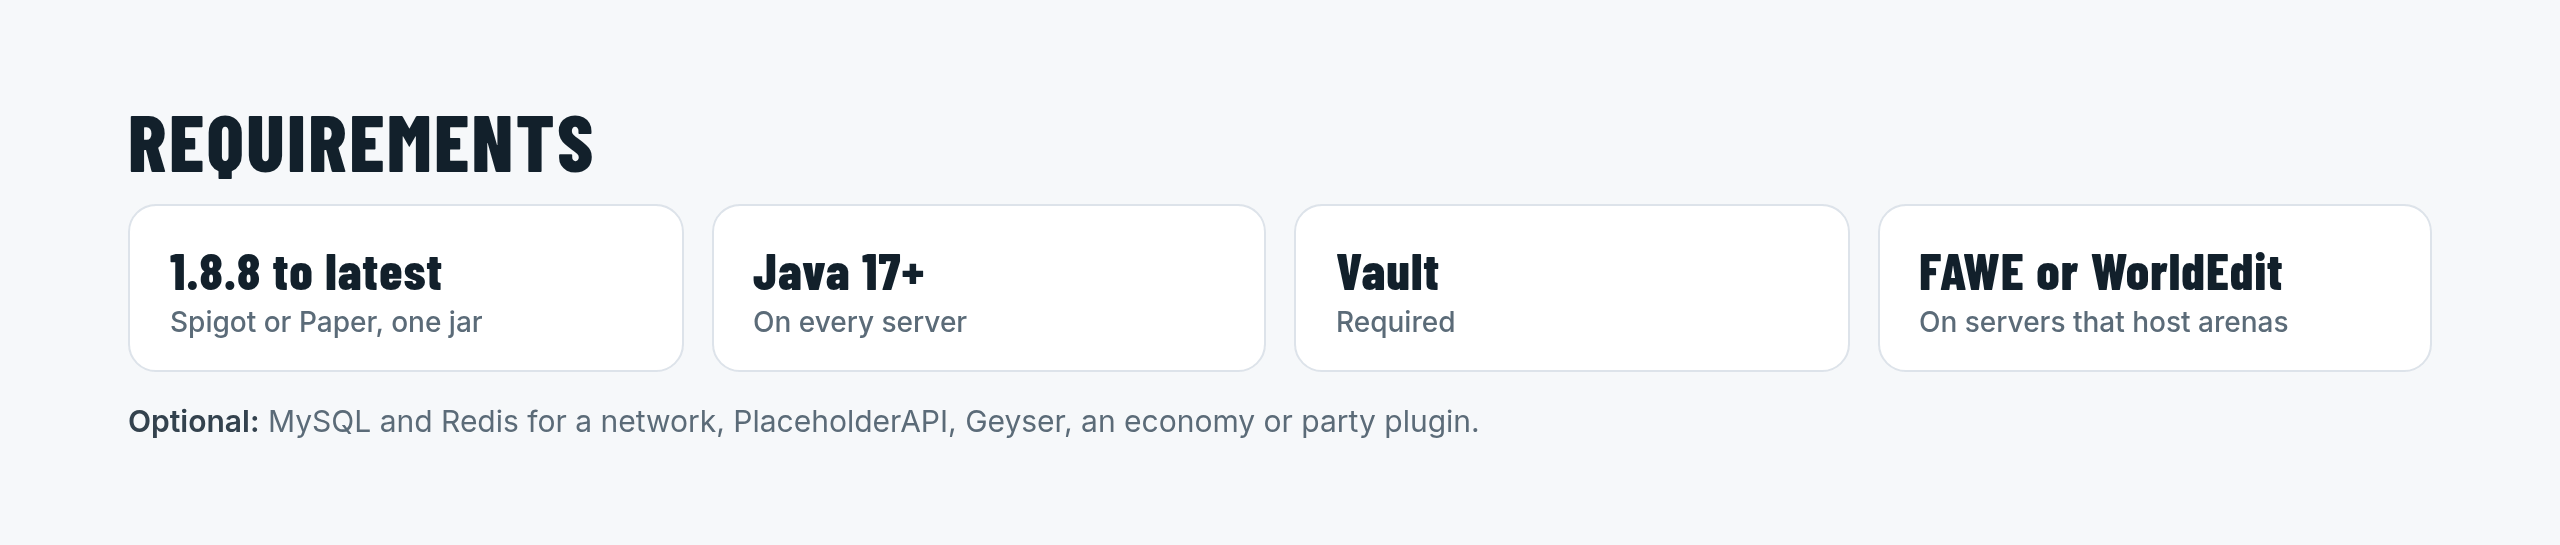
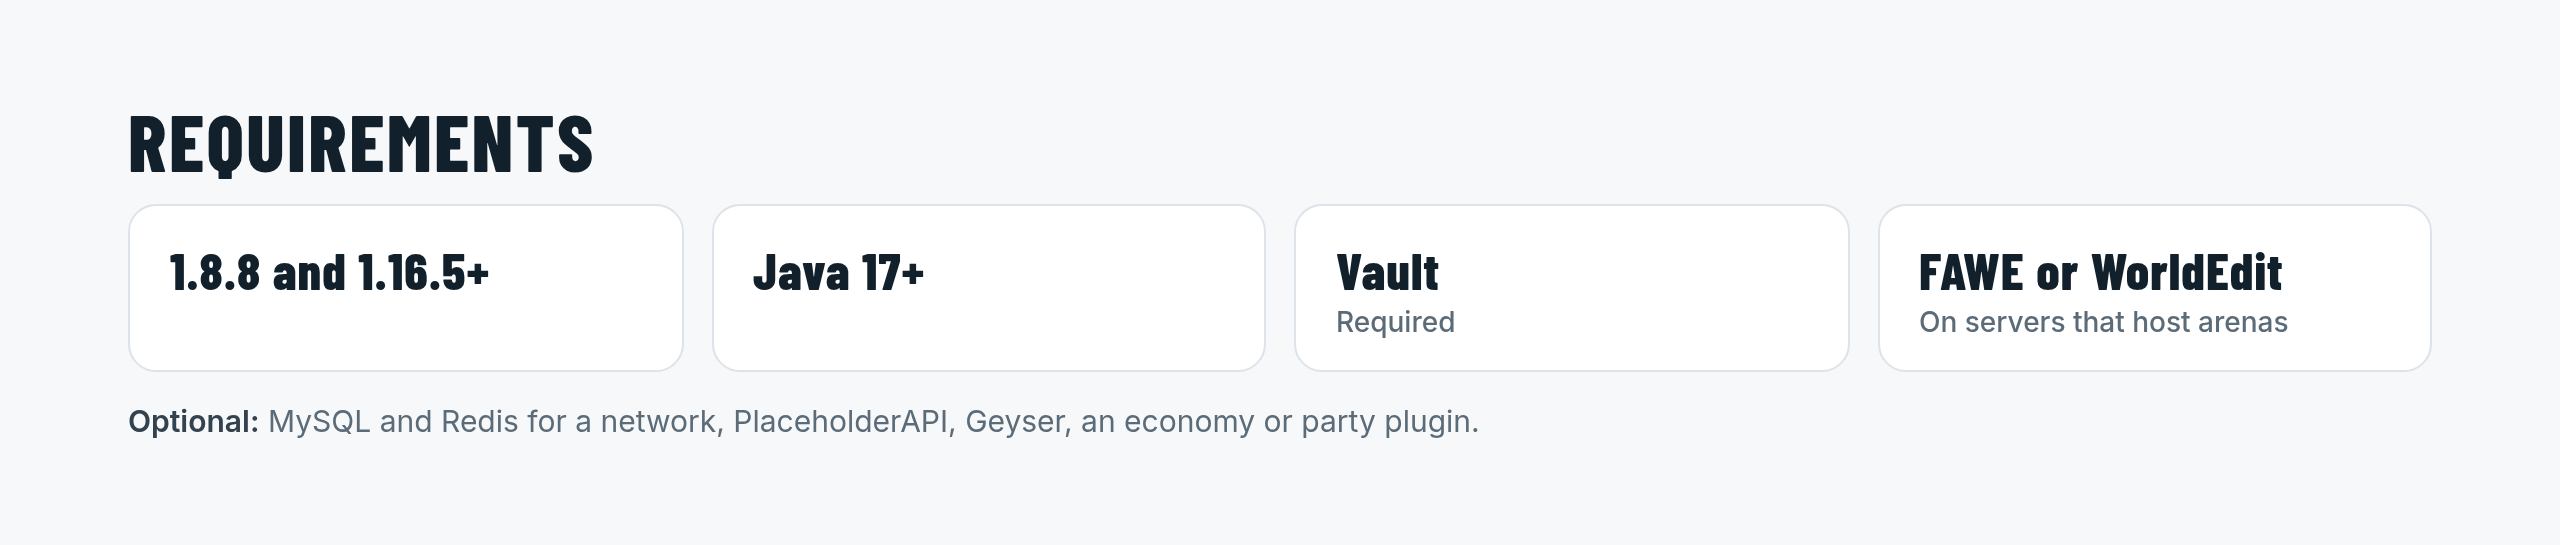
fix: incorrect supported version ranges

Changed region(s): [[0.0625, 0.5615, 0.1875, 0.6239], [0.2812, 0.5615, 0.375, 0.6239], [0.0938, 0.4679, 0.1875, 0.5303]]

diff --git a/docs/tea/user/server-versions.md b/docs/tea/user/server-versions.md
@@ -5,7 +5,7 @@ title: Server versions
 
 # Server versions
 
-TeaCore and the games built on it run on **Minecraft 1.8.8 up to the latest release**, all from the same plugin jars. TeaCore detects the version at startup and logs it:
+TeaCore and the games built on it run on **Minecraft 1.8.8 to 1.12.2, and 1.16.5 up to the latest release**, all from the same plugin jars. TeaCore detects the version at startup and logs it:
 
 ```
 [TeaCore] Platform: legacy (Minecraft 1.8.8)
@@ -16,9 +16,13 @@ TeaCore and the games built on it run on **Minecraft 1.8.8 up to the latest rele
 
 | Plugin | Versions |
 | ------ | -------- |
-| TeaCore | 1.8.8 to latest |
-| Fireball, Overcharge, TeaCosmetics | 1.8.8 to latest |
-| Ascend | 1.8.8 to latest, with a [LibsDisguises](https://www.spigotmc.org/resources/libs-disguises-free.81/) build for your server version |
+| TeaCore | 1.8.8 to 1.12.2, 1.16.5 to latest |
+| Fireball, Overcharge, TeaCosmetics | 1.8.8 to 1.12.2, 1.16.5 to latest |
+| Ascend | 1.8.8 to 1.12.2, 1.16.5 to latest, with a [LibsDisguises](https://www.spigotmc.org/resources/libs-disguises-free.81/) build for your server version |
+
+## 1.13 to 1.16.4
+
+These versions can't load Tea. From 1.13, the server rewrites every plugin class as it loads, and on 1.13 to 1.15 the library that does this can't read Java 17 classes. The server stops TeaCore with `Unsupported class file major version 61` before any of its code runs. Update to 1.16.5 or newer, or stay on 1.12.2 or older.
 
 On versions that lack a mob or item, the games use the closest one: Ascend's Warden stage becomes a Wither on 1.8, the Phantom a Bat, the Piglin a Zombie Pigman; Overcharge's energy cells are prismarine crystals instead of amethyst shards.
 
@@ -28,9 +32,12 @@ On versions that lack a mob or item, the games use the closest one: Ascend's War
 | --------- | --------------- | ---- |
 | 1.20.5 and newer | Paper (or Spigot), or a fork such as Purpur | 21 or newer, as Minecraft requires |
 | 1.17 to 1.20.4 | Paper (or Spigot) | 17 or newer |
-| 1.8.8 to 1.16.5 | Paper (or Spigot), or a fork | 17 or newer |
+| 1.16.5 | Paper (or Spigot) | 17 or newer |
+| 1.8.8 to 1.12.2 | Paper (or Spigot), or a fork | 17 or newer |
 
 Every Tea jar needs Java 17 or newer, including on 1.8.8. Older Minecraft versions were made for Java 8, so on 1.8.8 pick server software that runs on Java 17.
+
+On Paper 1.16.5, add `-DPaper.IgnoreJavaVersion=true` to the start command so it accepts Java 17. If you use FastAsyncWorldEdit there, use a build made for 1.16.5 (2.4.x): newer FAWE builds crash while pasting maps on 1.16.5.
 
 ## 1.8.8 on Java 17
 
@@ -67,7 +74,7 @@ Config and menu files name items, sounds, particles and potion effects by their 
 
 ## Maps
 
-| | 1.13 and newer | 1.8 to 1.12 |
+| | 1.16.5 and newer | 1.8 to 1.12 |
 | --- | --- | --- |
 | Map file | `<map>.schem` (Sponge format) | `<map>.schematic` (MCEdit format) |
 | WorldEdit / FAWE | Needed to save and paste maps | Not needed: TeaCore reads and writes `.schematic` itself |

diff --git a/docs/tea/user/lobby.md b/docs/tea/user/lobby.md
@@ -139,6 +139,10 @@ Players who join an arena wait there until the countdown ends. You choose where:
 
 TeaCore uses the first one that's set. Spectators always go straight into the arena.
 
+If players leave in the last seconds before the match and too few are left, or everyone left is on one team, the match doesn't start. The arena goes back to waiting and the players return to where they wait.
+
+A player who quits during a match leaves it. They are moved to the lobby spawn (or the main world's spawn) with an empty inventory, so they never log back in inside an arena.
+
 ![Waiting for a match: the kit picker in slot 1 and the leave item in slot 9](/img/tea/waiting.png)
 
 ### Waiting rooms
@@ -170,7 +174,7 @@ Then choose where it's used:
 
 A map's own room wins over the game's room. A map without one uses the game's room, and a game without one falls back to a shared waiting area or the map's waiting spawn. New assignments apply to arenas opened after the change.
 
-Rooms live in `plugins/TeaCore/waiting-rooms/`: one schematic per room and `waiting-rooms.yml` with the spawns and assignments. Like maps, they're stored in the database and every server gets them (see [Arena servers](./hosting.md)). Rooms need the same things as maps: WorldEdit or FastAsyncWorldEdit on 1.13 and newer, nothing extra on older versions. Every command needs the `tea.arena.admin` permission.
+Rooms live in `plugins/TeaCore/waiting-rooms/`: one schematic per room and `waiting-rooms.yml` with the spawns and assignments. Like maps, they're stored in the database and every server gets them (see [Arena servers](./hosting.md)). Rooms need the same things as maps: WorldEdit or FastAsyncWorldEdit on 1.16.5 and newer, nothing extra on older versions. Every command needs the `tea.arena.admin` permission.
 
 ### A shared waiting area
 

diff --git a/docs/cosmetics/user/cosmetics.md b/docs/cosmetics/user/cosmetics.md
@@ -7,7 +7,7 @@ title: The cosmetics
 
 These are the cosmetics TeaCosmetics ships with. Change them, or add your own, in [Configuration](./configuration.md).
 
-Players open `/cosmetics`, pick a type, and click a cosmetic to buy or wear it. Right-clicking a cosmetic in that menu, or running `/cosmetics preview <id>`, shows it without buying it: projectile trails on a thrown snowball, walk trails circling you, and kill and win effects three times in front of you.
+Players open `/cosmetics`, pick a type, and click a cosmetic to buy or wear it. Right-clicking a cosmetic in that menu, or running `/cosmetics preview <id>`, shows it without buying it: projectile trails on a thrown snowball, walk trails circling you, and kill and win effects three times in front of you. Previews work in the lobby and in a waiting arena, not during a match. Victory dances never launch or spin a player while a match is running.
 
 ![The /cosmetics menu](/img/cosmetics/menu.png)
 
@@ -87,7 +87,7 @@ Plays when you or your team wins, next to your win effect.
 | Command | Permission | What it does |
 | --- | --- | --- |
 | `/cosmetics` | `teacosmetics.use` | Opens the menu. |
-| `/cosmetics preview <id>` | `teacosmetics.use` | Shows a cosmetic without wearing it. Once every 2 seconds. |
+| `/cosmetics preview <id>` | `teacosmetics.use` | Shows a cosmetic without wearing it. Once every 2 seconds. Not available once a match has started. |
 | `/cosmetics equip <player> <id>` | `teacosmetics.admin` | Puts a cosmetic on an online player, without buying it. `none` takes everything off. |
 | `/cosmetics reload` | `teacosmetics.admin` | Reloads the config. |
 

diff --git a/docs/tea/intro.md b/docs/tea/intro.md
@@ -5,7 +5,7 @@ title: What is Tea
 
 # What is Tea
 
-Tea is a reusable Minecraft minigames engine for Paper (or Spigot), from 1.8.8 to the latest release. It ships as a single plugin:
+Tea is a reusable Minecraft minigames engine for Paper (or Spigot), from 1.8.8 to 1.12.2 and 1.16.5 to the latest release. It ships as a single plugin:
 
 * **TeaCore**: the engine itself, with arena lifecycle, maps, teams, kits, abilities, cooldowns, effects, i18n, theme, chat routing, stats, and cross-server coordination (Redis + BungeeCord/Velocity).
 * **Lobby features** (live inside TeaCore, gated by `lobby.enabled` in `plugins/TeaCore/config.yml`) provide `/play`, `/leave`, connection signs, and lobby spawn / gamemode auto-management. Set `lobby.enabled: true` on each hub server; leave it `false` (the default) on arena-only servers.
@@ -24,7 +24,7 @@ TeaCore also gives every game a shared set of player-facing features. The server
 
 
 
-Tea runs on Java 17 or newer and uses the plain Spigot API, with no Paper-only APIs, so the same jars run on Spigot, Paper, Purpur and Paper-based forks, from 1.8.8 to the latest release. On 1.8 to 1.12 TeaCore reaches into a few server internals (item and entity NBT, explosions). See [Server versions](./user/server-versions.md).
+Tea runs on Java 17 or newer and uses the plain Spigot API, with no Paper-only APIs, so the same jars run on Spigot, Paper, Purpur and Paper-based forks, from 1.8.8 to 1.12.2 and 1.16.5 to the latest release. On 1.8 to 1.12 TeaCore reaches into a few server internals (item and entity NBT, explosions). See [Server versions](./user/server-versions.md).
 
 ## Where to next
 

diff --git a/docs/tea/user/getting-started.md b/docs/tea/user/getting-started.md
@@ -5,7 +5,7 @@ title: Getting started
 
 # Getting started
 
-Tea is a single-plugin engine for running Minecraft minigames on Paper (or Spigot), from 1.8.8 to the latest release:
+Tea is a single-plugin engine for running Minecraft minigames on Paper (or Spigot), from 1.8.8 to 1.12.2 and 1.16.5 to the latest release:
 
 - **TeaCore**: the engine. Every server that runs a game needs it.
 - **Lobby features** (connection signs, `/play` and the game selector, `/profile`, the lobby hotbar, `/leave`, lobby spawn / gamemode management) ship inside TeaCore. Turn them on with `lobby.enabled: true` in `plugins/TeaCore/config.yml`. Set this on every hub server; leave it off (the default) on arena-only servers.
@@ -14,9 +14,9 @@ Games are separate plugin jars on top of Tea. This section covers installing and
 
 ## Minimum requirements
 
-- Minecraft 1.8.8 or newer: Paper (or Spigot) or a fork such as Purpur. See [Server versions](./server-versions.md).
+- Minecraft 1.8.8 to 1.12.2, or 1.16.5 or newer: Paper (or Spigot) or a fork such as Purpur. See [Server versions](./server-versions.md).
 - Java 17 or newer
-- On 1.13 and newer: WorldEdit or FastAsyncWorldEdit to save and paste maps (soft dependency, not bundled). 1.8 to 1.12 servers don't need it.
+- On 1.16.5 and newer: WorldEdit or FastAsyncWorldEdit to save and paste maps (soft dependency, not bundled). 1.8 to 1.12 servers don't need it.
 - Redis (optional, needed for cross-server matchmaking)
 - MySQL (optional, SQLite is the default)
 

diff --git a/docs/tea/user/adding-a-map.md b/docs/tea/user/adding-a-map.md
@@ -7,7 +7,7 @@ title: Authoring a map
 
 You author Tea maps with `/tea map ...` commands. Each authoring session runs in a temporary void world: TeaCore creates it on `create`, pastes your schematic into it on `edit`, and deletes it on `save` or `discard`. TeaCore stores spawn positions as offsets from the region's min-corner, so spawns land in the right place when the map is pasted into an arena world.
 
-On 1.13 and newer, you need WorldEdit or FastAsyncWorldEdit installed to save maps (TeaCore uses it as a soft dependency and does not bundle it). On 1.8 to 1.12 TeaCore saves maps itself. In both cases TeaCore does the save, so you do not need to run `//schem save`. TeaCore saves maps as `.schem` on modern servers and `.schematic` on 1.8 to 1.12 (see [Server versions](./server-versions.md#maps)).
+On 1.16.5 and newer, you need WorldEdit or FastAsyncWorldEdit installed to save maps (TeaCore uses it as a soft dependency and does not bundle it). On 1.8 to 1.12 TeaCore saves maps itself. In both cases TeaCore does the save, so you do not need to run `//schem save`. TeaCore saves maps as `.schem` on modern servers and `.schematic` on 1.8 to 1.12 (see [Server versions](./server-versions.md#maps)).
 
 Every game built on Tea uses this authoring flow. Games add their own `/tea map` subcommands through the map-extension registry; each game's map-authoring page lists them.
 

diff --git a/docs/fireball/user/installing.md b/docs/fireball/user/installing.md
@@ -9,10 +9,10 @@ Fireball runs on top of Tea. Before you start, [install TeaCore](../../tea/user/
 
 ## Requirements
 
-- Paper (or Spigot) **1.8.8 to the latest release**. See [Server versions](../../tea/user/server-versions.md).
+- Paper (or Spigot) **1.8.8 to 1.12.2 and 1.16.5 to the latest release**. See [Server versions](../../tea/user/server-versions.md).
 - Java **21**
 - **TeaCore 0.2.0 or newer** (hard dependency). Fireball will not load without it, and disables itself on an older TeaCore with a console message saying which version it needs.
-- **FastAsyncWorldEdit** or **WorldEdit** on 1.13 and newer. This is a soft dependency and is not bundled. TeaCore uses it to save maps and to paste them into arenas. Without it you cannot author maps and TeaCore cannot build arenas. Servers on 1.8 to 1.12 don't need it.
+- **FastAsyncWorldEdit** or **WorldEdit** on 1.16.5 and newer. This is a soft dependency and is not bundled. TeaCore uses it to save maps and to paste them into arenas. Without it you cannot author maps and TeaCore cannot build arenas. Servers on 1.8 to 1.12 don't need it.
 - **A Vault economy plugin** (EssentialsX Economy, CMI, ...): needed only if you keep kits with a `cost` above 0. Vault itself is already required by TeaCore. See [Economy](../../tea/user/economy.md).
 - **PlaceholderAPI**: optional, for the `%tea_fireball_*%` placeholders.
 

diff --git a/docs/tea/user/configuring-network-mode.md b/docs/tea/user/configuring-network-mode.md
@@ -135,6 +135,17 @@ arena-pool:
 
 Every arena server hosts every installed game unless you limit it with `hosting.games`. See [Arena servers](./hosting.md) for that, for how arenas pick their map, and for keeping maps on each server's disk instead of the database (`maps.storage: files`).
 
+### Signed Redis messages
+
+Servers sign every command and event they send each other through Redis with a shared network secret, and drop messages that are unsigned, wrongly signed or more than two minutes old. You don't set the secret up: the first server to start generates one and stores it in the shared MySQL database, and the others read it from there. A server that drops a message logs `Dropped an unsigned or wrongly signed message`. That usually means it uses a different database from the rest, or its clock is off by minutes.
+
+If your servers don't share a database, set the same `network.secret` on every server:
+
+```yaml
+network:
+  secret: "a long random string"
+```
+
 ## External
 
 **Use this when:** Kubernetes (or similar) boots a fresh server per match. Each server hosts one arena, runs the match, then stops. Your autoscaler decides when to start more servers. See [Running on Kubernetes](./kubernetes.md) for a full setup.

diff --git a/docs/tea/user/troubleshooting.md b/docs/tea/user/troubleshooting.md
@@ -26,7 +26,7 @@ The named game isn't registered on this server. In a split lobby/arena deploymen
 
 TeaCore isn't pasting the schematic. Check:
 
-1. On 1.13 and newer: WorldEdit or FastAsyncWorldEdit is installed and enabled (1.8 to 1.12 doesn't need it).
+1. On 1.16.5 and newer: WorldEdit or FastAsyncWorldEdit is installed and enabled (1.8 to 1.12 doesn't need it).
 2. The map has a schematic: `/tea map info <game> <map>` should show a schematic path.
 3. The schematic file exists at `plugins/TeaCore/maps/schems/<mapId>.schem` (or `.schematic`).
 
@@ -48,7 +48,7 @@ The edit world exists, but TeaCore can't paste the saved schematic. Causes:
 
 - Someone deleted the schematic file from `plugins/TeaCore/maps/schems/`.
 - Someone saved the schematic on a different Minecraft version with incompatible block IDs. A `.schem` from a modern server can't be pasted on 1.8 to 1.12; a `.schematic` works everywhere. Re-run `/tea map create` and build fresh, or replace the file with one made for this version.
-- On 1.13 and newer: WorldEdit isn't loaded.
+- On 1.16.5 and newer: WorldEdit isn't loaded.
 
 ## Redis connection refused
 

diff --git a/docs/tea/dev/extending-with-a-new-game.md b/docs/tea/dev/extending-with-a-new-game.md
@@ -17,7 +17,7 @@ api-version: '1.13'
 depend: [TeaCore]
 ```
 
-Keep `api-version` at `'1.13'`. A server refuses to load a plugin whose `api-version` is newer than the server itself, so `'1.21'` would lock out everything from 1.13 to 1.20. Servers older than 1.13 ignore the field. To run on every version TeaCore supports (1.8.8 to the latest), build against both server APIs and use `core.platform()` for anything version-specific: see [Supporting every version](./platform.md).
+Keep `api-version` at `'1.13'`. A server refuses to load a plugin whose `api-version` is newer than the server itself, so `'1.21'` would lock out everything from 1.16.5 to 1.20. Servers older than 1.13 ignore the field. To run on every version TeaCore supports (1.8.8 to the latest), build against both server APIs and use `core.platform()` for anything version-specific: see [Supporting every version](./platform.md).
 
 If your game uses other plugins that must be present at enable time, add them to `depend:`. For example, a game that relies on LibsDisguises for mob morphs would declare `depend: [TeaCore, LibsDisguises]`.
 

diff --git a/docs/tea/dev/architecture.md b/docs/tea/dev/architecture.md
@@ -5,7 +5,7 @@ title: Architecture
 
 # Architecture
 
-Tea is one Paper (or Spigot) plugin built with Gradle (Kotlin DSL) and shaded into a fat jar. It runs from 1.8.8 to the latest release: shared code compiles against both the 1.8.8 and the modern API, and version-specific code lives in two platforms picked at startup (see [Supporting every version](./platform.md)):
+Tea is one Paper (or Spigot) plugin built with Gradle (Kotlin DSL) and shaded into a fat jar. It runs from 1.8.8 to 1.12.2 and 1.16.5 to the latest release: shared code compiles against both the 1.8.8 and the modern API, and version-specific code lives in two platforms picked at startup (see [Supporting every version](./platform.md)):
 
 - **TeaCore**: the engine. It holds the shared infrastructure, plus the hub-side lobby UI (`/play`, `/leave`, connection signs, lobby spawn / gamemode management) gated by `lobby.enabled` in `plugins/TeaCore/config.yml`.
 

diff --git a/docs/tea/user/installing.md b/docs/tea/user/installing.md
@@ -20,7 +20,7 @@ Any game plugin built on Tea requires the TeaCore plugin. Game plugins can add t
 
 
 
-WorldEdit or FastAsyncWorldEdit is a soft dependency of TeaCore. On 1.13 and newer you need it for map authoring (`/tea map create`, `/tea map edit`) and for pasting maps into arenas. Nothing else needs it. On 1.8 to 1.12 TeaCore saves and pastes maps itself, so you don't need it there. See [Server versions](./server-versions.md).
+WorldEdit or FastAsyncWorldEdit is a soft dependency of TeaCore. On 1.16.5 and newer you need it for map authoring (`/tea map create`, `/tea map edit`) and for pasting maps into arenas. Nothing else needs it. On 1.8 to 1.12 TeaCore saves and pastes maps itself, so you don't need it there. See [Server versions](./server-versions.md).
 
 
 Floodgate is a soft dependency too. With it on a server, Bedrock players get [menus as forms](./menus.md#bedrock-players).
